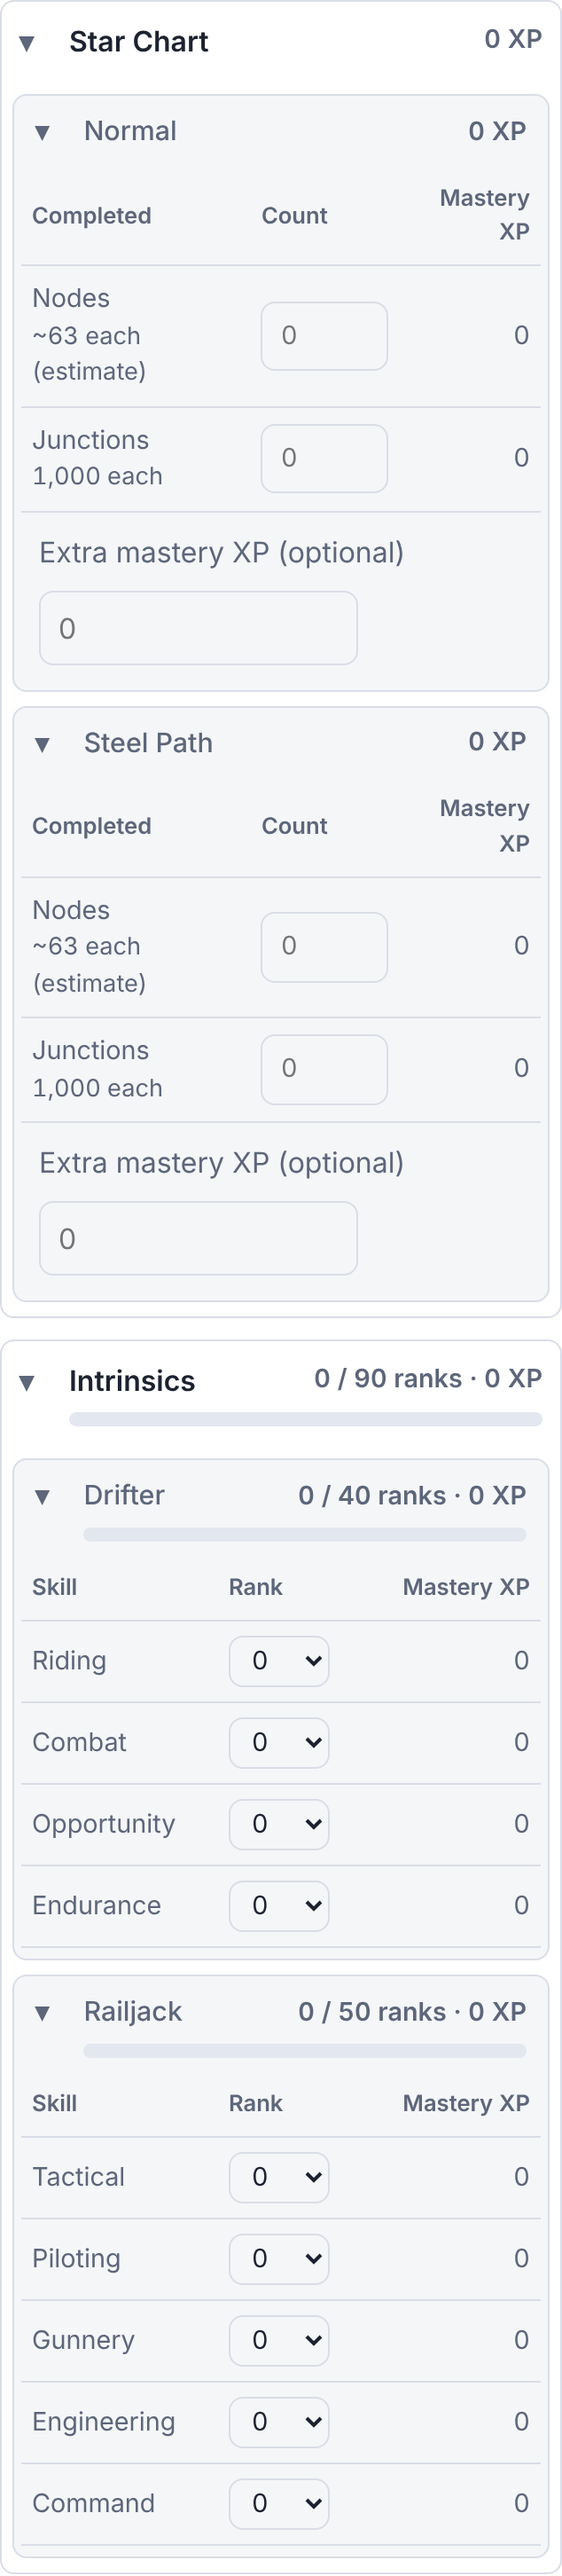
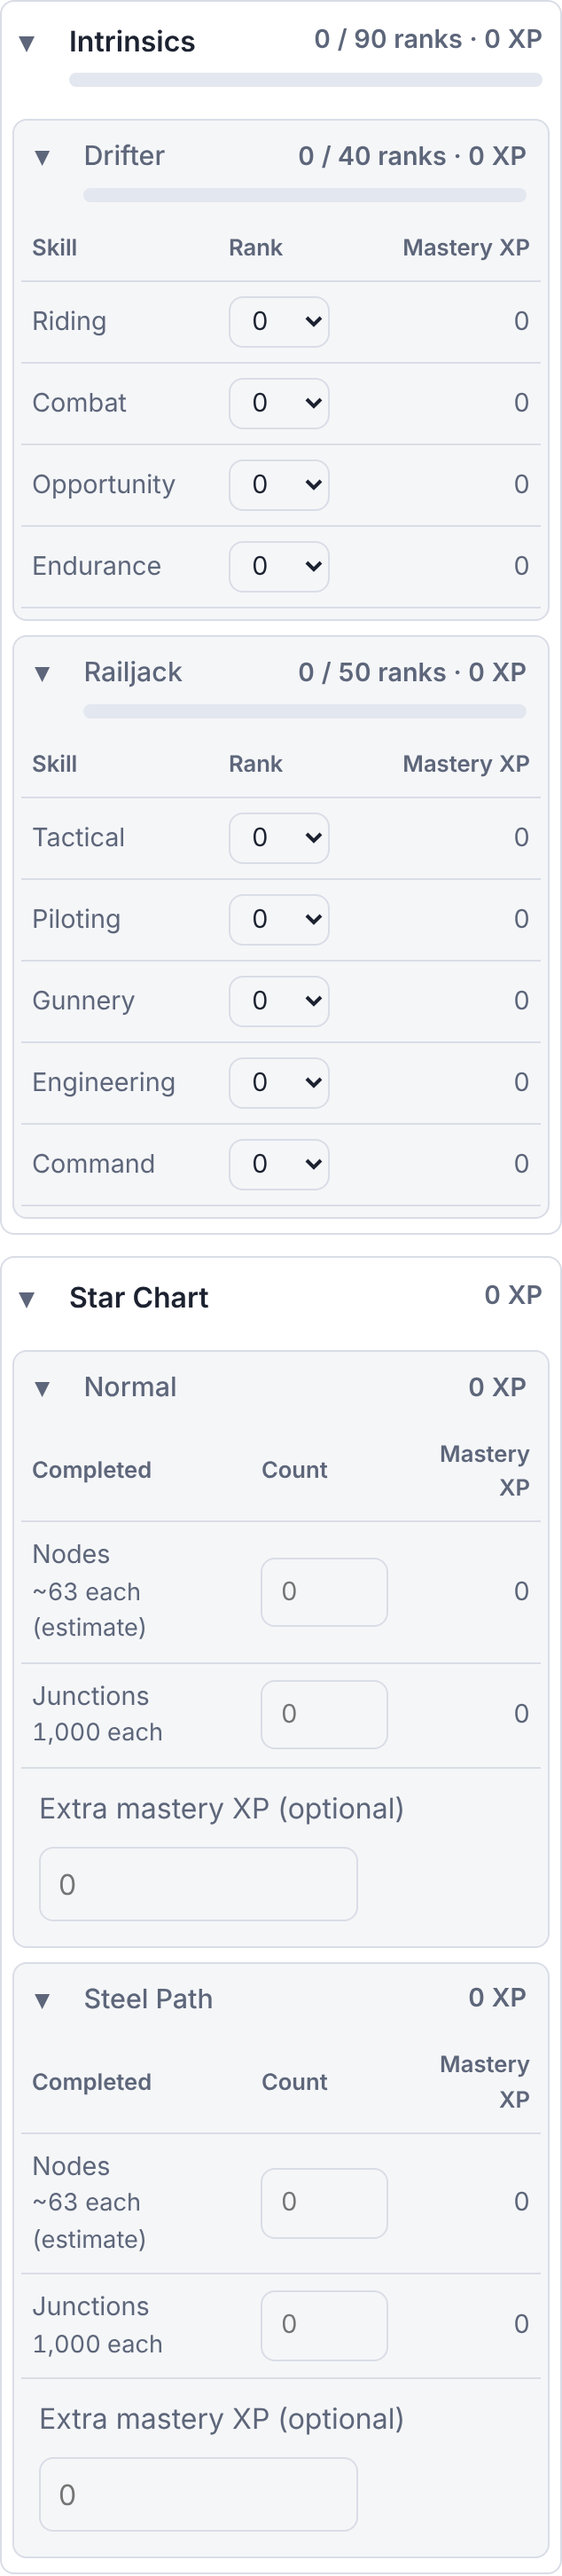
List Intrinsics before Star Chart
Claude-Session: https://claude.ai/code/session_01APemrT85MxDH99zKt1411N

diff --git a/test/mastery.test.js b/test/mastery.test.js
@@ -154,9 +154,9 @@ test("groupRows splits into ordered lists and falls back on type", () => {
 test("other sources nest as Star Chart (Normal, Steel Path) and Intrinsics (Drifter, Railjack)", () => {
   const o = M.summarizeOther(null);
   assert.equal(o.total, 0);
-  assert.deepEqual(o.groups.map((g) => g.label), ["Star Chart", "Intrinsics"]);
-  assert.deepEqual(o.groups.map((g) => g.sources.map((s) => s.label)), [["Normal", "Steel Path"], ["Drifter", "Railjack"]]);
-  assert.deepEqual(o.groups.map((g) => g.kind), ["xp", "ranks"]);
+  assert.deepEqual(o.groups.map((g) => g.label), ["Intrinsics", "Star Chart"]);
+  assert.deepEqual(o.groups.map((g) => g.sources.map((s) => s.label)), [["Drifter", "Railjack"], ["Normal", "Steel Path"]]);
+  assert.deepEqual(o.groups.map((g) => g.kind), ["ranks", "xp"]);
   assert.deepEqual(o.sources.map((s) => s.fullLabel), ["Star Chart", "Steel Path Star Chart", "Drifter Intrinsics", "Railjack Intrinsics"]);
   // every source belongs to exactly one group
   const grouped = o.groups.flatMap((g) => g.sources.map((s) => s.id)).sort();
@@ -168,7 +168,7 @@ test("group totals add up their sources", () => {
     xp: { "star-chart": 1000, "steel-path": 500 },
     ranks: { "railjack-intrinsics/piloting": 10, "drifter-intrinsics/riding": 4, "drifter-intrinsics/combat": 1 },
   });
-  const [chart, intr] = o.groups;
+  const [intr, chart] = o.groups;
   assert.equal(chart.xp, 1500);
   assert.equal(chart.rank, null);
   assert.equal(intr.rank, 15);

diff --git a/index.html b/index.html
@@ -5,8 +5,8 @@
   <meta name="viewport" content="width=device-width, initial-scale=1">
   <title>Warframe Mastery Tracker</title>
   <meta name="description" content="Track Warframe mastery rank progress from your own profile data. Runs entirely in your browser.">
-  <link rel="stylesheet" href="css/style.css?v=20261101k">
-  <script src="js/theme.js?v=20261101k"></script>
+  <link rel="stylesheet" href="css/style.css?v=20261101l">
+  <script src="js/theme.js?v=20261101l"></script>
 </head>
 <body>
   <header class="site-header">
@@ -124,7 +124,7 @@
     </div>
   </footer>
 
-  <script src="js/mastery.js?v=20261101k"></script>
-  <script src="js/app.js?v=20261101k"></script>
+  <script src="js/mastery.js?v=20261101l"></script>
+  <script src="js/app.js?v=20261101l"></script>
 </body>
 </html>

diff --git a/js/mastery.js b/js/mastery.js
@@ -234,8 +234,8 @@
 
   // How the sources are nested on the page. Source ids (and so saved entries) are unchanged.
   const OTHER_GROUPS = [
-    { id: "star-chart", label: "Star Chart", sources: ["star-chart", "steel-path"] },
     { id: "intrinsics", label: "Intrinsics", sources: ["drifter-intrinsics", "railjack-intrinsics"] },
+    { id: "star-chart", label: "Star Chart", sources: ["star-chart", "steel-path"] },
   ];
 
   function wholeNumber(v, max) {

diff --git a/README.md b/README.md
@@ -34,12 +34,12 @@ You'll see a confirmation with the number of items found. If you see an error in
 - **Item XP**: the mastery XP you've earned from items.
 - **If everything is maxed**: the rank you'd reach by maxing every item on the list.
 
-### 4. Check Star Chart and Intrinsics
+### 4. Check Intrinsics and Star Chart
 
-Mastery XP also comes from things that aren't items. **Star Chart** and **Intrinsics** at the bottom of Progress cover them, and importing a profile fills them in for you:
+Mastery XP also comes from things that aren't items. **Intrinsics** and **Star Chart** at the bottom of Progress cover them, and importing a profile fills them in for you:
 
-- **Star Chart**, split into **Normal** and **Steel Path**: the number of **nodes** and **junctions** you've completed, read from your profile (Railjack, dojo and event nodes aren't counted). Junctions are worth 1,000 mastery XP each. Nodes vary, and the tracker counts about 63 each, which is only an estimate, so there is also an optional **Extra mastery XP** box to correct any difference.
 - **Intrinsics**, split into **Drifter** (Riding, Combat, Opportunity, Endurance) and **Railjack** (Tactical, Piloting, Gunnery, Engineering, Command): your rank, from 0 to 10, for each skill, read from your profile. Each rank counts as 1,500 mastery XP.
+- **Star Chart**, split into **Normal** and **Steel Path**: the number of **nodes** and **junctions** you've completed, read from your profile (Railjack, dojo and event nodes aren't counted). Junctions are worth 1,000 mastery XP each. Nodes vary, and the tracker counts about 63 each, which is only an estimate, so there is also an optional **Extra mastery XP** box to correct any difference.
 
 You can change any of these by hand, for example if you haven't imported a profile. Importing again overwrites the nodes, junctions and ranks with what your profile says. Whatever is entered counts toward your rank at the top, and the **Other sources XP** figure there shows the combined total.
 
@@ -53,7 +53,7 @@ The **Progress** section has one expandable list each for **Warframes**, **Weapo
 
 Inside each list you'll see every item with the mastery rank needed to use it, your current rank, and awarded mastery XP for it. Tick the box beside an item to mark it as mastered.
 
-Use the search box and filters above the lists to narrow things down by name, Prime or non-Prime (variants such as Umbra, Prisma, Vandal, Wraith and Kuva count as non-Prime), or status (mastered or not). Searching opens any list that has a match, and Star Chart and Intrinsics step aside while you search or filter. Sorting by **Most XP remaining** shows where the biggest gains are.
+Use the search box and filters above the lists to narrow things down by name, Prime or non-Prime (variants such as Umbra, Prisma, Vandal, Wraith and Kuva count as non-Prime), or status (mastered or not). Searching opens any list that has a match, and Intrinsics and Star Chart step aside while you search or filter. Sorting by **Most XP remaining** shows where the biggest gains are.
 
 The item lists are refreshed automatically every day from Warframe's game data, so new Warframes, weapons and companions show up without you doing anything.
 
